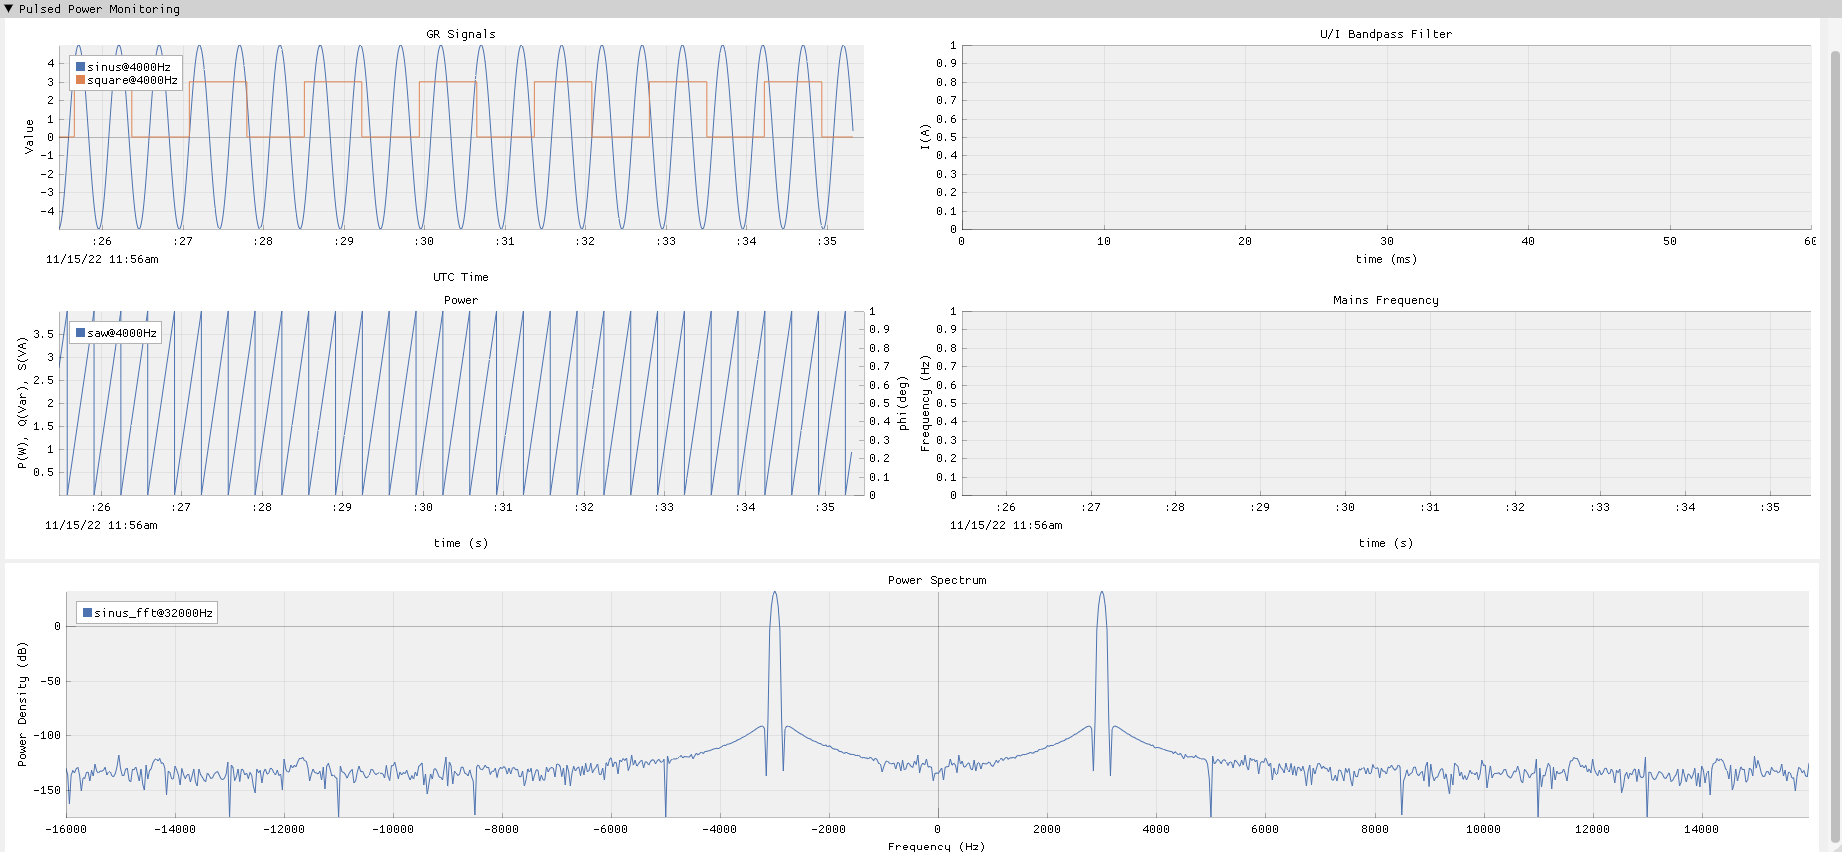
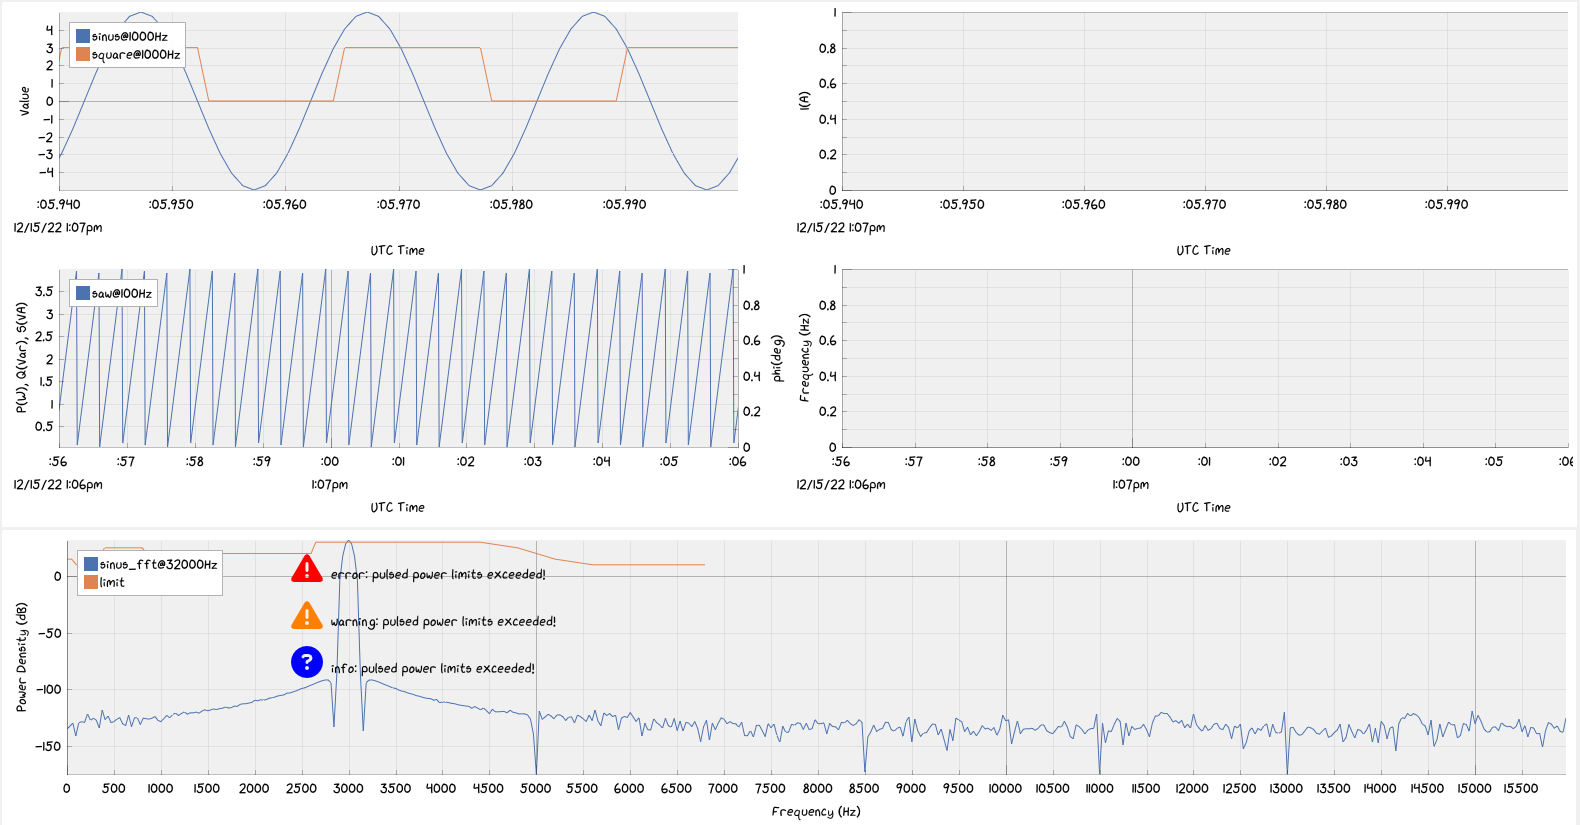
Limiting curve (#104)
* implement GR opencmw_freq_sink and frequency-domain worker

gr-pulsed_power: add opencmw frequency sink as a vector sink
opencmw_worker: implements get/set handler function for both time-domain and freq-domain worker
pulsed power service: add FFT calculation to the GR flowgraph and frequency worker thread

* GR flowgraph: add a separate signal source for the opencmw frequency sink
* properly cast GR multiply_const multiplicative constant parameter
* Visualize limiting curve via separate worker
* Reduce sample rate of simulated signals; Remove plot titles; Correct axes descriptions
* Set x-axis limits for power and frequency plot to time intervals of 5 minutes

diff --git a/src/opencmw_worker/src/PulsedPowerService.cpp b/src/opencmw_worker/src/PulsedPowerService.cpp
@@ -24,6 +24,7 @@
 
 #include "CounterWorker.hpp"
 #include "FrequencyDomainWorker.hpp"
+#include "LimitingCurveWorker.hpp"
 #include "TimeDomainWorker.hpp"
 
 using namespace opencmw::majordomo;
@@ -98,38 +99,39 @@ public:
     GRFlowGraph(int noutput_items)
         : top(gr::make_top_block("GNURadio")) {
         // flowgraph setup
-        float samp_rate = 4'000.0f;
+        float samp_rate_1 = 1'000.0f;
+        float samp_rate_2 = 100.0f;
         // sinus_signal --> throttle --> opencmw_time_sink
-        auto signal_source_0             = gr::analog::sig_source_f::make(samp_rate, gr::analog::GR_SIN_WAVE, 0.5, 5, 0, 0);
-        auto throttle_block_0            = gr::blocks::throttle::make(sizeof(float) * 1, samp_rate, true);
-        auto pulsed_power_opencmw_sink_0 = gr::pulsed_power::opencmw_time_sink::make({ "sinus", "square" }, { "V", "A" }, samp_rate);
+        auto signal_source_0             = gr::analog::sig_source_f::make(samp_rate_1, gr::analog::GR_SIN_WAVE, 50, 5, 0, 0);
+        auto throttle_block_0            = gr::blocks::throttle::make(sizeof(float) * 1, samp_rate_1, true);
+        auto pulsed_power_opencmw_sink_0 = gr::pulsed_power::opencmw_time_sink::make({ "sinus", "square" }, { "V", "A" }, samp_rate_1);
         pulsed_power_opencmw_sink_0->set_max_noutput_items(noutput_items);
 
         // saw_signal --> throttle --> opencmw_time_sink
-        auto signal_source_1             = gr::analog::sig_source_f::make(samp_rate, gr::analog::GR_SAW_WAVE, 3, 4, 0, 0);
-        auto throttle_block_1            = gr::blocks::throttle::make(sizeof(float) * 1, samp_rate, true);
-        auto pulsed_power_opencmw_sink_1 = gr::pulsed_power::opencmw_time_sink::make({ "saw" }, { "A" }, samp_rate);
+        auto signal_source_1             = gr::analog::sig_source_f::make(samp_rate_2, gr::analog::GR_SAW_WAVE, 0.1, 4, 0, 0);
+        auto throttle_block_1            = gr::blocks::throttle::make(sizeof(float) * 1, samp_rate_2, true);
+        auto pulsed_power_opencmw_sink_1 = gr::pulsed_power::opencmw_time_sink::make({ "saw" }, { "A" }, samp_rate_2);
         pulsed_power_opencmw_sink_1->set_max_noutput_items(noutput_items);
 
         // square_signal --> throttle --> opencmw_time_sink
-        auto signal_source_2             = gr::analog::sig_source_f::make(samp_rate, gr::analog::GR_SQR_WAVE, 0.7, 3, 0, 0);
-        auto throttle_block_2            = gr::blocks::throttle::make(sizeof(float) * 1, samp_rate, true);
-        auto pulsed_power_opencmw_sink_2 = gr::pulsed_power::opencmw_time_sink::make({ "square" }, { "A" }, samp_rate);
+        auto signal_source_2             = gr::analog::sig_source_f::make(samp_rate_1, gr::analog::GR_SQR_WAVE, 40, 3, 0, 0);
+        auto throttle_block_2            = gr::blocks::throttle::make(sizeof(float) * 1, samp_rate_1, true);
+        auto pulsed_power_opencmw_sink_2 = gr::pulsed_power::opencmw_time_sink::make({ "square" }, { "A" }, samp_rate_1);
         pulsed_power_opencmw_sink_2->set_max_noutput_items(noutput_items);
 
         // sinus_signal --> throttle --> stream_to_vector --> fft --> fast_multiply_constant --> complex_to_mag^2 --> log10 --> opencmw_freq_sink
-        const float  samp_rate_2                      = 32'000.0f;
+        const float  samp_rate_3                      = 32'000.0f;
         const size_t vec_length                       = 1024;
         const size_t fft_size                         = vec_length;
-        const auto   bandwidth                        = samp_rate_2;
-        auto         signal_source_3                  = gr::analog::sig_source_f::make(samp_rate_2, gr::analog::GR_SIN_WAVE, 3000.0f, 220.0);
-        auto         throttle_block_3                 = gr::blocks::throttle::make(sizeof(float) * 1, samp_rate_2, true);
+        const auto   bandwidth                        = samp_rate_3;
+        auto         signal_source_3                  = gr::analog::sig_source_f::make(samp_rate_3, gr::analog::GR_SIN_WAVE, 3000.0f, 220.0);
+        auto         throttle_block_3                 = gr::blocks::throttle::make(sizeof(float) * 1, samp_rate_3, true);
         auto         stream_to_vector_0               = gr::blocks::stream_to_vector::make(sizeof(float) * 1, vec_length);
         auto         fft_vxx_0                        = gr::fft::fft_v<float, true>::make(fft_size, gr::fft::window::blackmanharris(1024), true, 1);
         auto         multiply_const_xx_0              = gr::blocks::multiply_const_cc::make(1 / static_cast<float>(vec_length), vec_length);
         auto         complex_to_mag_squared_0         = gr::blocks::complex_to_mag_squared::make(vec_length);
         auto         nlog10_ff_0                      = gr::blocks::nlog10_ff::make(10, vec_length, 0);
-        auto         pulsed_power_opencmw_freq_sink_0 = gr::pulsed_power::opencmw_freq_sink::make({ "sinus_fft" }, { "dB" }, samp_rate_2, bandwidth);
+        auto         pulsed_power_opencmw_freq_sink_0 = gr::pulsed_power::opencmw_freq_sink::make({ "sinus_fft" }, { "dB" }, samp_rate_3, bandwidth);
 
         // connections
         // time-domain sinks
@@ -181,11 +183,13 @@ int main() {
     CounterWorker<"counter", description<"Returns counter value">>                                        counterWorker(broker, std::chrono::milliseconds(1000));
     TimeDomainWorker<"pulsed_power/Acquisition", description<"Time-Domain Worker">>                       timeDomainWorker(broker);
     FrequencyDomainWorker<"pulsed_power_freq/AcquisitionSpectra", description<"Frequency-Domain Worker">> freqDomainWorker(broker);
+    LimitingCurveWorker<"limiting_curve", description<"Limiting curve worker">>                           limitingCurveWorker(broker, std::chrono::milliseconds(4000));
 
     // run workers in separate threads
     std::jthread counterWorkerThread([&counterWorker] { counterWorker.run(); });
     std::jthread timeSinkWorkerThread([&timeDomainWorker] { timeDomainWorker.run(); });
     std::jthread freqSinkWorkerThread([&freqDomainWorker] { freqDomainWorker.run(); });
+    std::jthread limitingCurveWorkerThread([&limitingCurveWorker] { limitingCurveWorker.run(); });
 
     brokerThread.join();
 
@@ -193,4 +197,5 @@ int main() {
     timeSinkWorkerThread.join();
     freqSinkWorkerThread.join();
     counterWorkerThread.join();
+    limitingCurveWorkerThread.join();
 }

diff --git a/src/implot_visualization/app/plot_tools/plot_tools.h b/src/implot_visualization/app/plot_tools/plot_tools.h
@@ -67,7 +67,7 @@ void plotGrSignals(std::vector<ScrollingBuffer> &signals) {
     ImPlot::SetupAxes("UTC Time", "Value", xflags, yflags);
     auto   clock       = std::chrono::system_clock::now();
     double currentTime = static_cast<double>(std::chrono::duration_cast<std::chrono::seconds>(clock.time_since_epoch()).count());
-    ImPlot::SetupAxisLimits(ImAxis_X1, currentTime - 30.0, currentTime, ImGuiCond_Always);
+    ImPlot::SetupAxisLimits(ImAxis_X1, currentTime - 0.06, currentTime, ImGuiCond_Always);
     ImPlot::SetupAxisScale(ImAxis_X1, ImPlotScale_Time);
     ImPlot::SetNextFillStyle(IMPLOT_AUTO_COL, 0.5f);
     Plotter::plotSignals(signals);
@@ -76,8 +76,11 @@ void plotGrSignals(std::vector<ScrollingBuffer> &signals) {
 void plotBandpassFilter(std::vector<ScrollingBuffer> &signals) {
     static ImPlotAxisFlags xflags = ImPlotAxisFlags_None;
     static ImPlotAxisFlags yflags = ImPlotAxisFlags_AutoFit | ImPlotAxisFlags_RangeFit;
-    ImPlot::SetupAxes("time (ms)", "I(A)", xflags, yflags);
-    ImPlot::SetupAxisLimits(ImAxis_X1, 0, 60, ImGuiCond_Always);
+    ImPlot::SetupAxes("UTC Time", "I(A)", xflags, yflags);
+    auto   clock       = std::chrono::system_clock::now();
+    double currentTime = static_cast<double>(std::chrono::duration_cast<std::chrono::seconds>(clock.time_since_epoch()).count());
+    ImPlot::SetupAxisLimits(ImAxis_X1, currentTime - 0.06, currentTime, ImGuiCond_Always);
+    ImPlot::SetupAxisScale(ImAxis_X1, ImPlotScale_Time);
     ImPlot::SetNextFillStyle(IMPLOT_AUTO_COL, 0.5f);
     // plotSignals(signals);
 }
@@ -85,10 +88,10 @@ void plotBandpassFilter(std::vector<ScrollingBuffer> &signals) {
 void plotPower(std::vector<ScrollingBuffer> &signals) {
     static ImPlotAxisFlags xflags = ImPlotAxisFlags_None;
     static ImPlotAxisFlags yflags = ImPlotAxisFlags_AutoFit | ImPlotAxisFlags_RangeFit;
-    ImPlot::SetupAxes("time (s)", "P(W), Q(Var), S(VA)", xflags, yflags);
+    ImPlot::SetupAxes("UTC Time", "P(W), Q(Var), S(VA)", xflags, yflags);
     auto   clock       = std::chrono::system_clock::now();
     double currentTime = static_cast<double>(std::chrono::duration_cast<std::chrono::seconds>(clock.time_since_epoch()).count());
-    ImPlot::SetupAxisLimits(ImAxis_X1, currentTime - 10.0, currentTime, ImGuiCond_Always);
+    ImPlot::SetupAxisLimits(ImAxis_X1, currentTime - 300.0, currentTime, ImGuiCond_Always);
     ImPlot::SetupAxisScale(ImAxis_X1, ImPlotScale_Time);
     ImPlot::SetupAxis(ImAxis_Y2, "phi(deg)", ImPlotAxisFlags_AuxDefault);
     ImPlot::SetNextFillStyle(IMPLOT_AUTO_COL, 0.5f);
@@ -98,21 +101,22 @@ void plotPower(std::vector<ScrollingBuffer> &signals) {
 void plotMainsFrequency(std::vector<ScrollingBuffer> &signals) {
     static ImPlotAxisFlags xflags = ImPlotAxisFlags_None;
     static ImPlotAxisFlags yflags = ImPlotAxisFlags_AutoFit | ImPlotAxisFlags_RangeFit;
-    ImPlot::SetupAxes("time (s)", "Frequency (Hz)", xflags, yflags);
+    ImPlot::SetupAxes("UTC Time", "Frequency (Hz)", xflags, yflags);
     auto   clock       = std::chrono::system_clock::now();
     double currentTime = static_cast<double>(std::chrono::duration_cast<std::chrono::seconds>(clock.time_since_epoch()).count());
-    ImPlot::SetupAxisLimits(ImAxis_X1, currentTime - 10.0, currentTime, ImGuiCond_Always);
+    ImPlot::SetupAxisLimits(ImAxis_X1, currentTime - 300.0, currentTime, ImGuiCond_Always);
     ImPlot::SetupAxisScale(ImAxis_X1, ImPlotScale_Time);
     ImPlot::SetNextFillStyle(IMPLOT_AUTO_COL, 0.5f);
     // plotSignals(signals);
 }
 
-void plotPowerSpectrum(std::vector<Buffer> &signals, const bool violation, ImFont *fontawesome) {
+void plotPowerSpectrum(std::vector<Buffer> &signals, std::vector<Buffer> &limitingCurve, const bool violation, ImFont *fontawesome) {
     static ImPlotAxisFlags xflags = ImPlotAxisFlags_AutoFit | ImPlotAxisFlags_RangeFit;
     static ImPlotAxisFlags yflags = ImPlotAxisFlags_AutoFit | ImPlotAxisFlags_RangeFit;
     ImPlot::SetupAxes("Frequency (Hz)", "Power Density (dB)", xflags, yflags);
     ImPlot::SetNextFillStyle(IMPLOT_AUTO_COL, 0.5f);
     plotSignals(signals);
+    plotSignals(limitingCurve);
     if (violation) {
         addPlotNotice("error: pulsed power limits exceeded!", fontawesome, ICON_FA_TRIANGLE_EXCLAMATION, { 1.0, 0, 0, 1.0 }, { 0.15, 0.05 });
         addPlotNotice("warning: pulsed power limits exceeded!", fontawesome, ICON_FA_TRIANGLE_EXCLAMATION, { 1, 0.5, 0, 1.0 }, { 0.15, 0.25 });

diff --git a/src/implot_visualization/app/main.cpp b/src/implot_visualization/app/main.cpp
@@ -42,11 +42,12 @@ public:
 static void main_loop(void *);
 
 int         main(int, char **) {
-    Subscription<Acquisition>                     grSubscription("http://localhost:8080/pulsed_power/Acquisition?channelNameFilter=", { "sinus@4000Hz", "square@4000Hz" });
-    Subscription<Acquisition>                     powerSubscription("http://localhost:8080/pulsed_power/Acquisition?channelNameFilter=", { "saw@4000Hz" });
+    Subscription<Acquisition>                     grSubscription("http://localhost:8080/pulsed_power/Acquisition?channelNameFilter=", { "sinus@1000Hz", "square@1000Hz" });
+    Subscription<Acquisition>                     powerSubscription("http://localhost:8080/pulsed_power/Acquisition?channelNameFilter=", { "saw@100Hz" });
     Subscription<AcquisitionSpectra>              frequencySubscription("http://localhost:8080/pulsed_power_freq/AcquisitionSpectra?channelNameFilter=", { "sinus_fft@32000Hz" });
+    Subscription<AcquisitionSpectra>              limitingCurveSubscription("http://localhost:8080/", { "limiting_curve" });
     std::vector<Subscription<Acquisition>>        subscriptionsTimeDomain = { grSubscription, powerSubscription };
-    std::vector<Subscription<AcquisitionSpectra>> subscriptionsFrequency  = { frequencySubscription };
+    std::vector<Subscription<AcquisitionSpectra>> subscriptionsFrequency  = { frequencySubscription, limitingCurveSubscription };
     AppState                                      appState(subscriptionsTimeDomain, subscriptionsFrequency);
 
     // Setup SDL
@@ -179,25 +180,25 @@ static void main_loop(void *arg) {
         static float              cratios[] = { 1, 1, 1, 1 };
         if (ImPlot::BeginSubplots("My Subplots", rows, cols, ImVec2(-1, (window_height * 2 / 3) - 30), flags, rratios, cratios)) {
             // GR Signals Plot
-            if (ImPlot::BeginPlot("GR Signals")) {
+            if (ImPlot::BeginPlot("")) {
                 Plotter::plotGrSignals(subscriptionsTimeDomain[0].acquisition.buffers);
                 ImPlot::EndPlot();
             }
 
             // Bandpass Filter Plot
-            if (ImPlot::BeginPlot("U/I Bandpass Filter")) {
+            if (ImPlot::BeginPlot("")) {
                 Plotter::plotBandpassFilter(subscriptionsTimeDomain[0].acquisition.buffers);
                 ImPlot::EndPlot();
             }
 
             // Power Plot
-            if (ImPlot::BeginPlot("Power")) {
+            if (ImPlot::BeginPlot("")) {
                 Plotter::plotPower(subscriptionsTimeDomain[1].acquisition.buffers);
                 ImPlot::EndPlot();
             }
 
             // Mains Frequency Plot
-            if (ImPlot::BeginPlot("Mains Frequency")) {
+            if (ImPlot::BeginPlot("")) {
                 Plotter::plotMainsFrequency(subscriptionsTimeDomain[1].acquisition.buffers);
                 ImPlot::EndPlot();
             }
@@ -205,8 +206,8 @@ static void main_loop(void *arg) {
         }
 
         // Power Spectrum
-        if (ImPlot::BeginPlot("Power Spectrum")) {
-            Plotter::plotPowerSpectrum(subscriptionsFrequency[0].acquisition.buffers, true, args->fonts.fontawesome);
+        if (ImPlot::BeginPlot("##")) {
+            Plotter::plotPowerSpectrum(subscriptionsFrequency[0].acquisition.buffers, subscriptionsFrequency[1].acquisition.buffers, true, args->fonts.fontawesome);
             ImPlot::EndPlot();
         }
         ImGui::End();

diff --git a/src/opencmw_worker/src/LimitingCurveWorker.hpp b/src/opencmw_worker/src/LimitingCurveWorker.hpp
@@ -1,0 +1,68 @@
+#ifndef LIMITING_CURVE_WORKER_H
+#define LIMITING_CURVE_WORKER_H
+
+#include <majordomo/Worker.hpp>
+
+class LimitingCurve {
+public:
+    std::string        refTriggerName         = { "NO_REF_TRIGGER" };
+    int64_t            refTriggerStamp        = 0;
+    std::string        channelName            = "limit";
+    std::vector<float> channelMagnitudeValues = {};
+    std::vector<float> channelFrequencyValues = {};
+    std::string        channelUnit;
+
+    LimitingCurve() {
+        channelMagnitudeValues = { 15, 15, 10, 10, 25, 25, 20, 20, 30, 30, 25, 15, 10, 10 };
+        // channelFrequencyValues = { 0, 0.05, 0.1, 0.3, 0.4, 0.8, 0.85, 2.6, 2.65, 4.4, 4.8, 5.2, 5.6, 6.8 };
+        channelFrequencyValues = { 0, 0.05 * 1000, 0.1 * 1000, 0.3 * 1000, 0.4 * 1000, 0.8 * 1000, 0.85 * 1000, 2.6 * 1000, 2.65 * 1000, 4.4 * 1000, 4.8 * 1000, 5.2 * 1000, 5.6 * 1000, 6.8 * 1000 };
+    }
+};
+
+ENABLE_REFLECTION_FOR(LimitingCurve, refTriggerName, refTriggerStamp, channelName, channelMagnitudeValues, channelFrequencyValues, channelUnit)
+
+using namespace opencmw::majordomo;
+template<units::basic_fixed_string serviceName, typename... Meta>
+class LimitingCurveWorker
+    : public Worker<serviceName, TestContext, Empty, LimitingCurve, Meta...> {
+    std::atomic<bool>     shutdownRequested;
+    std::jthread          notifyThread;
+    LimitingCurve         limitingCurve;
+
+    static constexpr auto PROPERTY_NAME = std::string_view("testLimitingCurve");
+
+public:
+    using super_t = Worker<serviceName, TestContext, Empty, LimitingCurve, Meta...>;
+
+    template<typename BrokerType>
+    explicit LimitingCurveWorker(const BrokerType &broker,
+            std::chrono::milliseconds              updateInterval)
+        : super_t(broker, {}) {
+        notifyThread = std::jthread([this, updateInterval] {
+            while (!shutdownRequested) {
+                std::this_thread::sleep_for(updateInterval);
+                TestContext context;
+                context.contentType = opencmw::MIME::JSON;
+                LimitingCurve reply = limitingCurve;
+                super_t::notify("limitingCurve", context, reply);
+            }
+        });
+
+        super_t::setCallback([this](RequestContext &rawCtx, const TestContext &,
+                                     const Empty &, TestContext &,
+                                     LimitingCurve &out) {
+            using namespace opencmw;
+            const auto topicPath = URI<RELAXED>(std::string(rawCtx.request.topic()))
+                                           .path()
+                                           .value_or("");
+            out = limitingCurve;
+        });
+    }
+
+    ~LimitingCurveWorker() {
+        shutdownRequested = true;
+        notifyThread.join();
+    }
+};
+
+#endif /* LIMITING_CURVE_WORKER_H */

diff --git a/src/implot_visualization/app/fetch/emscripten_fetch.cpp b/src/implot_visualization/app/fetch/emscripten_fetch.cpp
@@ -35,9 +35,8 @@ void onDownloadFailed(emscripten_fetch_t *fetch) {
 }
 
 template<typename T>
-Subscription<T>::Subscription(const std::string _url, const std::vector<std::string> &_requestedSignals) {
-    this->url        = _url;
-    requestedSignals = _requestedSignals;
+Subscription<T>::Subscription(const std::string &_url, const std::vector<std::string> &_requestedSignals)
+    : url(_url), requestedSignals(_requestedSignals) {
     for (std::string str : _requestedSignals) {
         this->url = this->url + str + ",";
     }
@@ -49,7 +48,11 @@ Subscription<T>::Subscription(const std::string _url, const std::vector<std::str
     T   _acquisition(numSignals);
     this->acquisition = _acquisition;
 
-    this->extendedUrl = this->url + "&lastRefTrigger=0";
+    if (url.find("channelNameFilter") != std::string::npos) {
+        this->extendedUrl = this->url + "&lastRefTrigger=0";
+    } else {
+        this->extendedUrl = this->url;
+    }
 }
 
 template<typename T>
@@ -70,7 +73,9 @@ void Subscription<T>::fetch() {
     }
     if (fetchSuccessful) {
         this->acquisition.deserialize();
-        updateUrl();
+        if (url.find("channelNameFilter") != std::string::npos) {
+            updateUrl();
+        }
         this->fetchSuccessful = false;
         this->fetchFinished   = true;
     }

diff --git a/src/opencmw_worker/src/FrequencyDomainWorker.hpp b/src/opencmw_worker/src/FrequencyDomainWorker.hpp
@@ -147,7 +147,7 @@ public:
                 bool result = signalData.ringBuffer->tryPublishEvent([i, in, vector_size, timestamp](RingBufferData &&bufferData, std::int64_t /*sequence*/) noexcept {
                     bufferData.timestamp = timestamp;
                     size_t offset        = static_cast<size_t>(i) * vector_size;
-                    bufferData.chunk.assign(in + offset, in + offset + vector_size);
+                    bufferData.chunk.assign(in + offset + vector_size / 2, in + offset + vector_size);
                 });
 
                 if (!result) {
@@ -214,8 +214,8 @@ private:
         float  bandwidth  = signalData.sink->get_bandwidth();
         out.channelFrequencyValues.clear();
         out.channelFrequencyValues.reserve(vectorSize);
-        float freqStartValue = -(bandwidth / 2);
-        float freqStepValue  = bandwidth / static_cast<float>(vectorSize);
+        float freqStartValue = 0; //-(bandwidth / 2);
+        float freqStepValue  = 0.5f * bandwidth / static_cast<float>(vectorSize);
         for (size_t i = 0; i < vectorSize; i++) {
             out.channelFrequencyValues.push_back(freqStartValue + static_cast<float>(i) * freqStepValue);
         }

diff --git a/src/implot_visualization/app/fetch/emscripten_fetch.h b/src/implot_visualization/app/fetch/emscripten_fetch.h
@@ -13,7 +13,7 @@ public:
     bool           fetchFinished   = true;
     bool           fetchSuccessful = false;
 
-    Subscription(const std::string _url, const std::vector<std::string> &_requestedSignals);
+    Subscription(const std::string &_url, const std::vector<std::string> &_requestedSignals);
 
     void fetch();
     void downloadSucceeded(emscripten_fetch_t *fetch);
